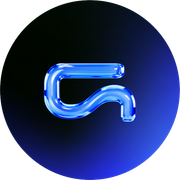
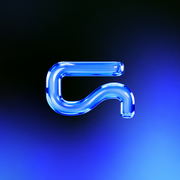
fix(pwa): corrigir icones antigos e invalidacao de cache

diff --git a/src/components/pwa/PwaRegisterAndInstall.tsx b/src/components/pwa/PwaRegisterAndInstall.tsx
@@ -30,6 +30,9 @@ export function PwaRegisterAndInstall() {
         navigator.serviceWorker
           .register("/sw.js")
           .then((reg) => {
+            // Force immediate check for SW update (bypasses 24h stale window)
+            reg.update().catch(() => {});
+
             // Check for updates periodically
             reg.addEventListener("updatefound", () => {
               const installingWorker = reg.installing;
@@ -152,13 +155,14 @@ export function PwaRegisterAndInstall() {
       className="fixed bottom-4 left-4 right-4 sm:left-auto sm:right-6 sm:bottom-6 z-50 max-w-sm w-full bg-[#16161a]/95 backdrop-blur-md border border-white/10 rounded-2xl p-4 shadow-2xl text-white animate-in slide-in-from-bottom duration-300"
     >
       <div className="flex items-start gap-3">
-        <div className="relative w-12 h-12 rounded-xl overflow-hidden bg-black/40 border border-white/10 shrink-0 shadow-md">
+        <div className="relative w-12 h-12 rounded-xl overflow-hidden bg-[#121214] border border-white/10 shrink-0 shadow-md">
           <Image
             src="/icons/icon-192x192.png"
+            unoptimized
             alt="WebGran Logo"
             width={48}
             height={48}
-            className="w-full h-full object-contain p-1"
+            className="w-full h-full object-cover"
           />
         </div>
 

diff --git a/public/sw.js b/public/sw.js
@@ -1,5 +1,5 @@
 // WebGran PWA Service Worker (Etapa 1: Installability & High Security Pass-Through)
-const CACHE_NAME = 'webgran-static-v5';
+const CACHE_NAME = 'webgran-static-v6';
 
 // Static brand assets explicitly safe to pre-cache (brand icons, notification badges and notification chime sounds)
 const PRECACHE_ASSETS = [
@@ -19,10 +19,19 @@ self.addEventListener('install', (event) => {
   // Activate immediately without waiting for existing tabs to close
   self.skipWaiting();
   event.waitUntil(
-    caches.open(CACHE_NAME).then((cache) => {
-      return cache.addAll(PRECACHE_ASSETS).catch((err) => {
-        console.warn('[SW] Precache skipped for some assets:', err);
-      });
+    caches.open(CACHE_NAME).then(async (cache) => {
+      await Promise.all(
+        PRECACHE_ASSETS.map(async (asset) => {
+          try {
+            const res = await fetch(asset, { cache: 'reload' });
+            if (res.ok) {
+              await cache.put(asset, res);
+            }
+          } catch (err) {
+            console.warn('[SW] Precache skipped for asset:', asset, err);
+          }
+        })
+      );
     })
   );
 });

diff --git a/next.config.ts b/next.config.ts
@@ -34,6 +34,37 @@ const nextConfig: NextConfig = {
           },
         ],
       },
+      {
+        source: "/icons/:path*",
+        headers: [
+          {
+            key: "Cache-Control",
+            value: "public, max-age=0, must-revalidate",
+          },
+        ],
+      },
+      {
+        source: "/manifest.webmanifest",
+        headers: [
+          {
+            key: "Cache-Control",
+            value: "public, max-age=0, must-revalidate",
+          },
+        ],
+      },
+      {
+        source: "/sw.js",
+        headers: [
+          {
+            key: "Cache-Control",
+            value: "no-cache, no-store, must-revalidate",
+          },
+          {
+            key: "Service-Worker-Allowed",
+            value: "/",
+          },
+        ],
+      },
     ];
   },
 };

diff --git a/src/app/layout.tsx b/src/app/layout.tsx
@@ -41,7 +41,6 @@ export const metadata: Metadata = {
     ],
     shortcut: "/favicon.ico",
     apple: [
-      { url: "/apple-icon.png", sizes: "180x180", type: "image/png" },
       { url: "/icons/apple-touch-icon.png", sizes: "180x180", type: "image/png" },
     ],
   },
